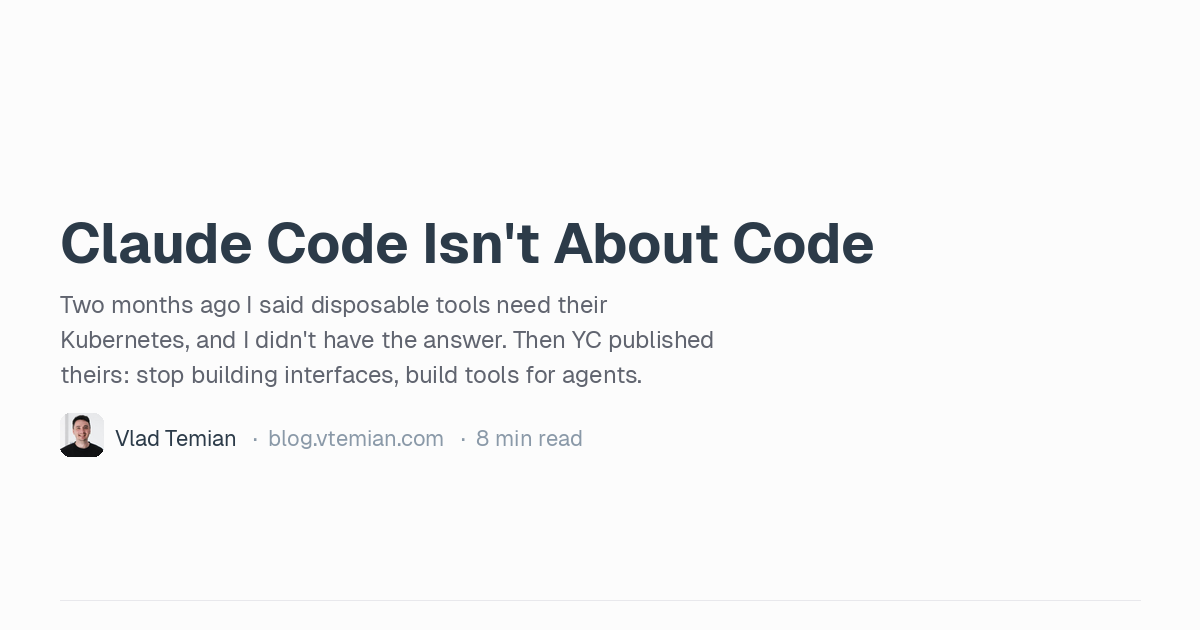
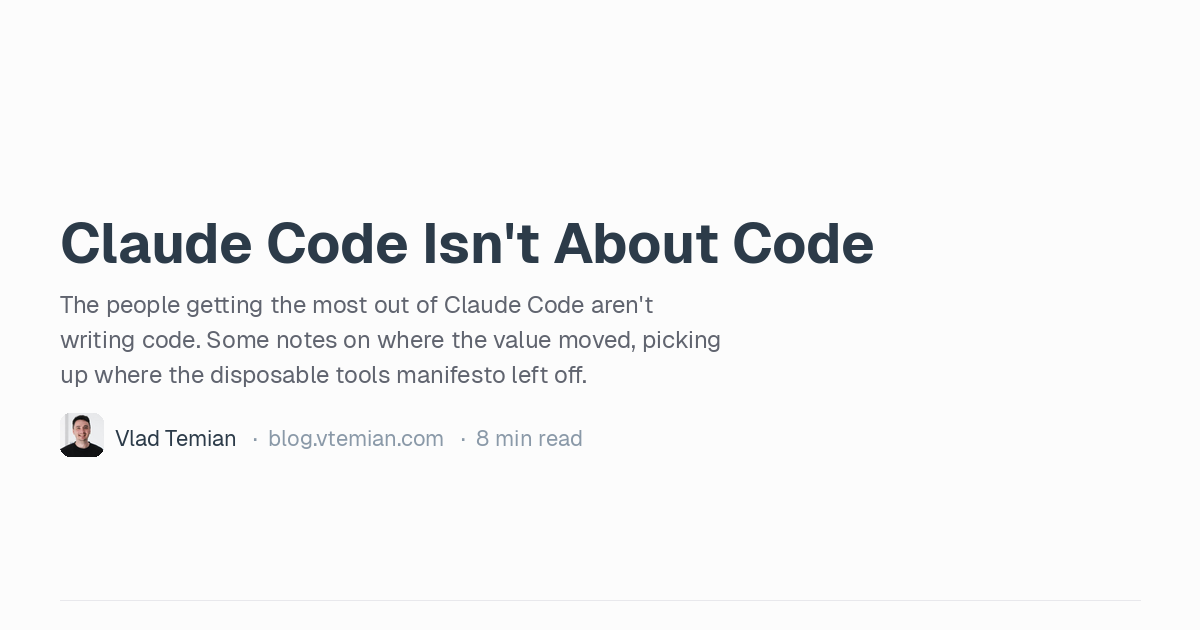
Reword post description in a plainer voice, regenerate OG card

Changed region(s): [[0.0308, 0.4524, 0.6167, 0.6333]]

diff --git a/content/post/claude-code-isnt-about-code/index.md b/content/post/claude-code-isnt-about-code/index.md
@@ -1,7 +1,7 @@
 ---
 title: "Claude Code Isn't About Code"
 date: 2026-06-02T08:00:00+02:00
-description: "Two months ago I said disposable tools need their Kubernetes, and I didn't have the answer. Then YC published theirs: stop building interfaces, build tools for agents. Here's what that means, and why the economy won't feel it for a decade."
+description: "The people getting the most out of Claude Code aren't writing code. Some notes on where the value moved, picking up where the disposable tools manifesto left off."
 keywords:
     - claude code
     - agent-ready tools
